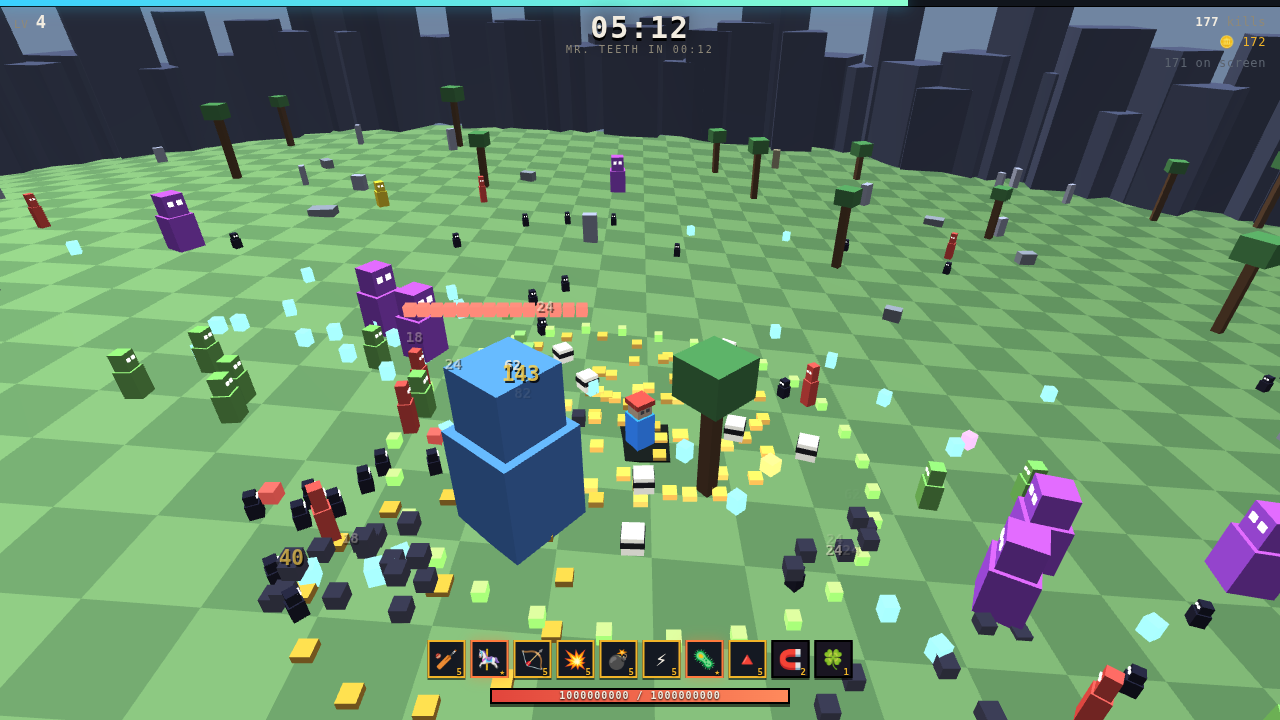
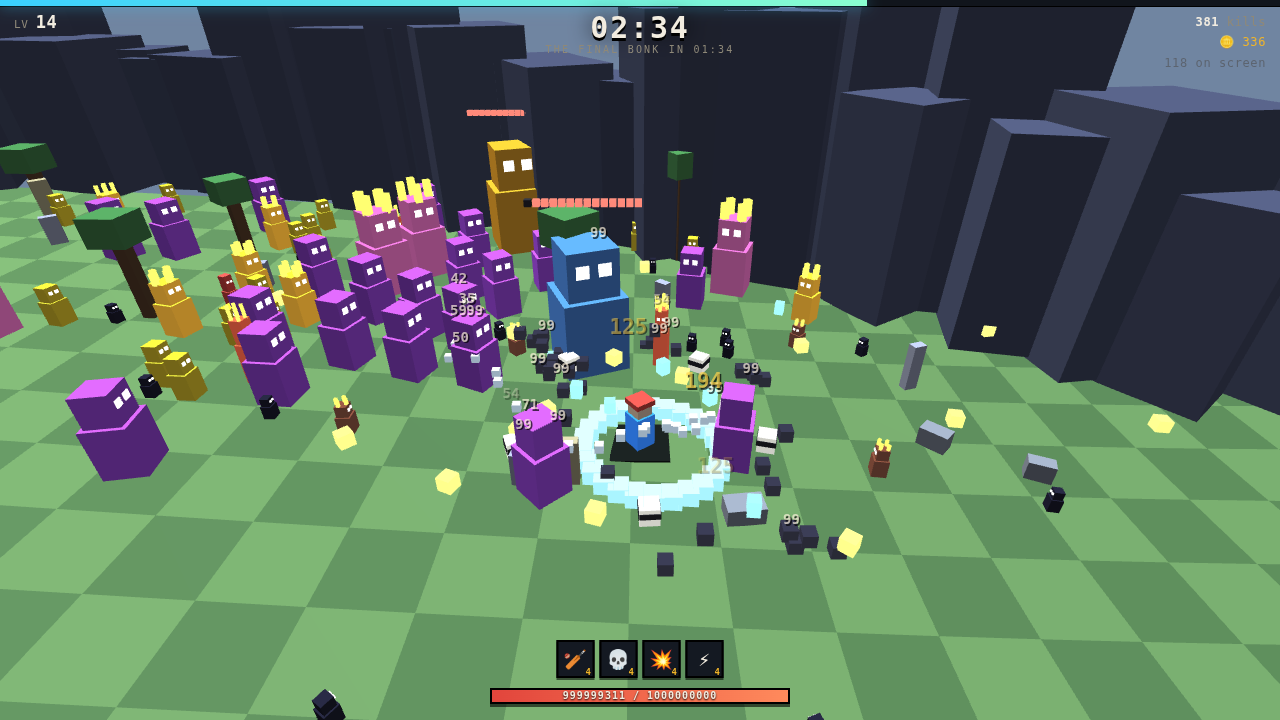
Elites: give the difficulty curve a face
Last round made the endgame x14.5 HP with no visual change at all, so
minute 18 looked identical to minute 8 while nothing died. That reads as
"my weapons got worse", not "these are tougher" - and a player who cannot
see the difficulty cannot adapt to it. That was a legibility defect the
difficulty work introduced.

Elites start at minute 6 and rise to ~1 in 5 by the end: crowned, 38%
larger, hot-tinted but still their species colour, 3.2x HP, 1.3x damage,
5x XP. A tint alone disappears in a crowd of 300, so they get a silhouette
you can pick out and decide to deal with.

Deliberately close to difficulty-neutral - veteran clears went 10/30 ->
9/30, first runs unmoved (they end at 4-6 min, before elites exist). The
change was readability, and the measurement confirms it did not smuggle in
a balance shift.

Enemies now carry their own rad/sz/xp/dmg/spdMul rather than reading the
shared type, which is what made per-enemy variants possible at all.

Also measured, since it would have changed priorities if it were bad: the
simulation costs 0.4 ms/frame at 300 enemies - a ~2,400 fps ceiling. The
frame budget is entirely rendering, and the harness's ~10 fps is
SwiftShader rasterising in software, not the game. window.__g.perf()
splits the two.

Two harness bugs fixed on the way:
  - the elite-vs-normal HP probe sampled one of each, but they spawn at
    different times under a moving hpScale, so it was comparing nothing.
    Uses medians now.
[…]

diff --git a/bonkhorde/index.html b/bonkhorde/index.html
@@ -520,6 +520,12 @@ const PHASES = [
 { t:960,  rate:11.6, mix:{runner:9,    skitter:11,spitter:6, brute:8} },
 { t:1100, rate:14.0, mix:{runner:10,   skitter:12,spitter:6, brute:10} },
 ];
+// Elite variants. Rare at first sight, ~1 in 5 by the end.
+const NORMAL     = { hp:1,   dmg:1,   spd:1,    sz:1,    xp:1 };
+const ELITE      = { hp:3.2, dmg:1.3, spd:1.10, sz:1.38, xp:5 };
+const ELITE_FROM = 360;                  // none before minute 6
+const eliteChance = t => Math.min(.20, (t - ELITE_FROM) / 3600);
+
 const RUN_LEN = 1200;                    // 20:00
 // Player power grows MULTIPLICATIVELY - evolutions roughly double a weapon, then
 // spinach and crit multiply on top of that. A linear HP ramp cannot stay with it,
@@ -582,6 +588,7 @@ let T=0, kills=0, coinsRun=0, running=false, over=false, paused=false, picking=f
 let shake=0, flash=0, camYaw=0, camPitch=.62;
 let bossIdx=0, nextSpawn=0, charId="intern", usedRevive=false, pendingLevels=0, dt=0;
 let sudden=false;                       // past 20:00 with THE FINAL BONK still up
+let noLevels=false;                     // test-only: hold back the level-up screen
 let runWon=false, runWhy="";
 
 function baseStats(ch){
@@ -614,7 +621,7 @@ function startRun(id){
   arcs=[]; pops=[]; nums=[]; spits=[]; alerts=[];
   T=0; kills=0; coinsRun=0; bossIdx=0; nextSpawn=0; shake=0; flash=0;
   camYaw=0; camPitch=.62; usedRevive=false; pendingLevels=0; sudden=false;
-  runWon=false; runWhy="";
+  runWon=false; runWhy=""; noLevels=false;
   running=true; over=false; paused=false; picking=false;
   hide("menu"); hide("end"); hide("paused"); hide("pick");
   audioInit(); if(AC && AC.state==="suspended") AC.resume();
@@ -724,18 +731,18 @@ function hurt(e, amount, kx, kz, crit){
 function killEnemy(e){
   if(e.dead) return;
   e.dead = true; kills++;
-  const n = e.boss ? 26 : e.def.r>1 ? 9 : 5;
+  const n = e.boss ? 26 : e.elite ? 14 : e.rad>1 ? 9 : 5;
   for(let i=0;i<n;i++) if(pops.length<340)
     pops.push({ x:e.x, y:e.y+e.def.h*.5, z:e.z, vx:rnd(-6,6), vy:rnd(2,9), vz:rnd(-6,6),
                 life:rnd(.35,.8), c:e.def.c, s:e.boss?.42:.20 });
   // XP: bosses shatter into a payday, everything else drops one gem
   if(e.boss){
-    for(let i=0;i<16;i++) pushGem(e.x+rnd(-3,3), e.z+rnd(-3,3), Math.ceil(e.def.xp/16));
+    for(let i=0;i<16;i++) pushGem(e.x+rnd(-3,3), e.z+rnd(-3,3), Math.ceil(e.xp/16));
     coinsRun += 90; shake = Math.max(shake, 1.4); SFX.boom();
     alert2(e.def.nm+" DOWN", "#6ddba0");
     if(e.final){ finish("VICTORY", true); return; }
   } else {
-    pushGem(e.x, e.z, e.def.xp);
+    pushGem(e.x, e.z, e.xp);
     if(Math.random() < .012) coinsRun += 5;
     SFX.pop();
   }
@@ -911,8 +918,17 @@ function spawnEnemy(type, atX, atZ){
     x = clamp(P.x + Math.cos(a)*r, -ARENA+2, ARENA-2);
     z = clamp(P.z + Math.sin(a)*r, -ARENA+2, ARENA-2);
   }
-  enemies.push({ x, z, y:groundY(x,z), def, type,
-    hp: def.hp*hpScale(T), maxhp: def.hp*hpScale(T), dmg: def.dmg*dmgScale(T),
+  // ELITES. The late game is x14.5 HP by minute 20 with no visual change at
+  // all, so minute 18 looks exactly like minute 8 while nothing dies - which
+  // reads as "my weapons got worse", not "these are tougher". Elites give the
+  // curve a face: a readable, prioritisable target that is visibly the reason.
+  const elite = T > ELITE_FROM && Math.random() < eliteChance(T);
+  const em = elite ? ELITE : NORMAL;
+  enemies.push({ x, z, y:groundY(x,z), def, type, elite,
+    rad: def.r*em.sz, sz: em.sz, xp: def.xp*em.xp, spdMul: em.spd,
+    hp:    def.hp*hpScale(T)*em.hp,
+    maxhp: def.hp*hpScale(T)*em.hp,
+    dmg:   def.dmg*dmgScale(T)*em.dmg,
     kx:0, kz:0, flash:-1, atk:0, bob:Math.random()*TAU, slowT:0, dead:false, boss:false });
 }
 function spawnBoss(b){
@@ -921,7 +937,7 @@ function spawnBoss(b){
   const x = clamp(P.x+Math.cos(a)*26, -ARENA+5, ARENA-5);
   const z = clamp(P.z+Math.sin(a)*26, -ARENA+5, ARENA-5);
   enemies.push({ x, z, y:groundY(x,z), def, type:"boss", hp:def.hp, maxhp:def.hp,
-    dmg:def.dmg,
+    dmg:def.dmg, rad:def.r, sz:1, xp:def.xp, spdMul:1, elite:false,
     kx:0, kz:0, flash:-1, atk:0, bob:0, slowT:0, dead:false, boss:true,
     final: b.t===1140 });
   shake = 1.2; SFX.boss(); alert2(b.nm, "#ff5c4d");
@@ -940,7 +956,7 @@ function updateEnemies(dt){
     e.kx *= Math.pow(.02, dt); e.kz *= Math.pow(.02, dt);
 
     const dx = P.x-e.x, dz = P.z-e.z, d = Math.hypot(dx,dz)||1;
-    const spd = e.def.spd * (e.slowT>0 ? .45 : 1) * (e.boss?1:rndSeed(e));
+    const spd = e.def.spd * e.spdMul * (e.slowT>0 ? .45 : 1) * (e.boss?1:rndSeed(e));
 
     if(e.def.ranged){
       // spitters hold at range and lob
@@ -964,9 +980,9 @@ function updateEnemies(dt){
     // standing still became SAFER the bigger the horde got. Clamp it well under
     // the slowest enemy's speed so the front rank always arrives.
     let sx=0, sz=0;
-    near(e.x, e.z, e.def.r*1.9, (o,od)=>{
+    near(e.x, e.z, e.rad*1.9, (o,od)=>{
       if(o===e || od<.0001) return;
-      const f = (e.def.r+o.def.r - od);
+      const f = (e.rad+o.rad - od);
       if(f>0){ sx += (e.x-o.x)/od*f; sz += (e.z-o.z)/od*f; }
     });
     const sl = Math.hypot(sx,sz);
@@ -984,7 +1000,7 @@ function updateEnemies(dt){
     e.bob += dt * (4 + e.def.spd);
 
     // contact damage
-    if(!e.def.ranged && d < e.def.r + .75 && P.iframe<=0){
+    if(!e.def.ranged && d < e.rad + .75 && P.iframe<=0){
       playerHurt(e.dmg);
     }
   }
@@ -1313,7 +1329,7 @@ function step(dt){
 
   if(shake>0) shake = Math.max(0, shake - dt*2.2);
   if(flash>0) flash = Math.max(0, flash - dt*2.6);
-  if(pendingLevels>0 && !picking) showPick();
+  if(pendingLevels>0 && !picking && !noLevels) showPick();
 }
 
 // ================================================================== FINISH
@@ -1492,20 +1508,37 @@ function render(){
 
   // enemies
   for(const e of enemies){
-    const D = e.def, hop = Math.abs(Math.sin(e.bob))*(e.boss?.10:.20);
+    const D = e.def, S = e.sz, W = D.w*S, H = D.h*S;
+    const hop = Math.abs(Math.sin(e.bob))*(e.boss?.10:.20);
     const sq = e.flash>0 ? 1.25 : 1;
-    const c = e.flash>0 ? [lerp(D.c[0],1,.72), lerp(D.c[1],1,.72), lerp(D.c[2],1,.72)] : D.c;
+    // elites keep their species colour but run hot, so you can still tell a
+    // CHONK from a SKITTER while knowing which one is the problem
+    const base = e.elite ? [lerp(D.c[0],1,.34), lerp(D.c[1],.42,.34), lerp(D.c[2],.10,.34)]
+                         : D.c;
+    const glow = e.flash>0 ? .45 : e.elite ? .20 : 0;
+    const c = e.flash>0 ? [lerp(base[0],1,.72), lerp(base[1],1,.72), lerp(base[2],1,.72)]
+                        : base;
     const face = Math.atan2(P.x-e.x, P.z-e.z);
-    const bh = D.h*.62;
-    box(e.x, e.y+bh*.5+hop, e.z, D.w*.5*sq, bh*.5, D.w*.5*sq, c, e.flash>0?.45:0, face);
+    const bh = H*.62;
+    box(e.x, e.y+bh*.5+hop, e.z, W*.5*sq, bh*.5, W*.5*sq, c, glow, face);
     // head + googly eyes. This is 3 boxes and it is most of the personality.
-    const hy = e.y + bh + D.h*.19 + hop;
-    box(e.x, hy, e.z, D.w*.40, D.h*.19, D.w*.40, c, e.flash>0?.45:0, face);
-    const ex = D.w*.17, ez = D.w*.40;
+    const hy = e.y + bh + H*.19 + hop;
+    box(e.x, hy, e.z, W*.40, H*.19, W*.40, c, glow, face);
+    const ex = W*.17, ez = W*.40;
     for(const sgn of [-1,1]){
       const ox = Math.cos(face)*ex*sgn + Math.sin(face)*ez;
       const oz = -Math.sin(face)*ex*sgn + Math.cos(face)*ez;
-      box(e.x+ox, hy+D.h*.04, e.z+oz, D.w*.10,D.w*.10,.04, [1,1,1], .9, face);
+      box(e.x+ox, hy+H*.04, e.z+oz, W*.10,W*.10,.04, [1,1,1], .9, face);
+    }
+    // and a crown. A tint alone vanishes in a crowd of 300 - this needs to be
+    // a silhouette you can pick out at a glance and decide to deal with.
+    if(e.elite){
+      const cy = hy + H*.28, spin = T*1.7 + e.bob;
+      for(let i=0;i<4;i++){
+        const a = spin + i*(TAU/4);
+        box(e.x + Math.sin(a)*W*.36, cy + Math.sin(T*3+i)*.05, e.z + Math.cos(a)*W*.36,
+            W*.10, H*.11, W*.10, [1,.74,.16], .95, a);
+      }
     }
     if(e.boss){
       const f = e.hp/e.maxhp;
@@ -1720,11 +1753,30 @@ window.__g = {
     } return enemies.length; },
   boss:  i=>spawnBoss(BOSSES[i||0]),
   god:   ()=>{ P.maxhp=1e9; P.hp=1e9; },
-  drainPicks: ()=>{ pendingLevels=0; picking=false; hide("pick"); },
+  // split frame cost into simulation vs rendering. Software GL exaggerates the
+  // render half enormously, so only the sim number transfers to real hardware.
+  perf:  (n=90)=>{
+    let sim=0, ren=0;
+    for(let i=0;i<n;i++){
+      let t0=performance.now(); step(1/60);      sim += performance.now()-t0;
+      t0=performance.now();     render();        ren += performance.now()-t0;
+    }
+    return { simMs:+(sim/n).toFixed(2), renderMs:+(ren/n).toFixed(2),
+             enemies:enemies.length, boxes:drawnBoxes,
+             simFpsCeiling:Math.round(1000/(sim/n)) };
+  },
+  drainPicks: (suppress)=>{ pendingLevels=0; picking=false; hide("pick");
+                            if(suppress!==undefined) noLevels=!!suppress; },
   killBoss: ()=>{ const b=enemies.find(e=>e.final&&!e.dead); if(b) killEnemy(b);
                   return window.__g.state(); },
   bot:   (on=true)=>botDrive=on,
   hpx:   ()=>hpScale(T),
+  elites:()=>{ const med = a => { const v=a.slice().sort((x,y)=>x-y);
+                                   return v.length ? v[v.length>>1] : 0; };
+    const E = enemies.filter(e=>e.elite), N = enemies.filter(e=>!e.elite&&!e.boss);
+    return { n:E.length, total:enemies.length,
+             chance:+Math.max(0,eliteChance(T)).toFixed(3),
+             hp: med(E.map(e=>e.maxhp)), normHp: med(N.map(e=>e.maxhp)) }; },
   dbg:   ()=>{ const ds=enemies.map(e=>Math.hypot(e.x-P.x,e.z-P.z)).sort((a,b)=>a-b);
                const hs=enemies.map(e=>e.hp).sort((a,b)=>a-b);
                return { nearest: ds[0]??-1, inRange: ds.filter(d=>d<8).length,

diff --git a/bonkhorde/test.js b/bonkhorde/test.js
@@ -164,6 +164,25 @@ const ok  = (n, c, extra="") => { c ? passes++ : fails++;
   ok("coins awarded on finish", full.final.coins > 0, "coins=" + full.final.coins);
   ok("no errors across full run", errors.length === 0, errors.slice(0, 3).join(" | "));
 
+  console.log("\n=== 7b. ELITES ===");
+  const early = await page.evaluate(() => {
+    window.__g.start("intern"); window.__g.god(); window.__g.bot(true);
+    window.__g.step(60 * 300);                          // to 5:00, before ELITE_FROM
+    return window.__g.elites();
+  });
+  ok("no elites before minute 6", early.n === 0 && early.chance <= 0,
+     `n=${early.n} chance=${early.chance}`);
+  const late = await page.evaluate(() => {
+    window.__g.start("intern"); window.__g.god(); window.__g.bot(true);
+    window.__g.skipTo(1000); window.__g.step(60 * 60);
+    return window.__g.elites();
+  });
+  ok("elites appear late", late.n > 0, `${late.n}/${late.total} alive, roll=${late.chance}`);
+  ok("elites are the tougher thing", late.hp > late.normHp * 2.5,
+     `elite ${Math.round(late.hp)} vs normal ${Math.round(late.normHp)}`);
+  ok("elite share stays a minority", late.n / Math.max(1,late.total) < 0.45,
+     Math.round(late.n / Math.max(1,late.total) * 100) + "%");
+
   console.log("\n=== 8b. SUDDEN DEATH GATE ===");
   const gate = await page.evaluate(() => {
     window.__g.start("intern"); window.__g.god(); window.__g.skipTo(1135);

diff --git a/bonkhorde/README.md b/bonkhorde/README.md
@@ -39,6 +39,7 @@ long as you stall, and victory means killing it. You have four minutes.
 | **8 evolutions** | each weapon maxed + a specific passive at rank 3 unlocks a replacement form |
 | **8 passives** | damage, speed, cooldown, pickup radius, armour, HP, +projectiles, crit |
 | **5 enemy types + 4 bosses** | with a spawn director that reweights the mix over 11 phases |
+| **elite variants** | from minute 6, rising to ~1 in 5 — crowned, larger, 3.2× HP, 5× XP |
 | **5 characters** | different starting weapon and stat profile; one unlocks by surviving 10:00 |
 | **9 permanent upgrades** | bought with coins, persisted to `localStorage` |
 
@@ -59,6 +60,11 @@ super-enemy that is both invisible and unkillable.
 
 **Audio.** A ~40-line Web Audio synth. No files.
 
+**Cost.** The simulation is **0.4 ms/frame at 300 enemies** — a ~2,400 fps ceiling — so the
+frame budget is entirely rendering. (The harness reports ~10 fps under load, but that is
+SwiftShader rasterising in software; the sim number is the one that transfers to real
+hardware.) Measured, not assumed: `window.__g.perf()` splits the two.
+
 ---
 
 ## Verification
@@ -69,15 +75,15 @@ same pattern as `proto3d/` in the parent repository.
 ```bash
 npm i playwright && npx playwright install chromium
 
-node test.js              # 63 checks: boot, every weapon, every evolution, every
-                         # enemy, every character, a full run, the sudden-death
-                         # gate, death, saves, render
+node test.js              # 67 checks: boot, every weapon, every evolution, every
+                         # enemy, elites, every character, a full run, the
+                         # sudden-death gate, death, saves, render
 node balance.js 6 both   # difficulty measurement: [trials] [first|vet|both]
 ```
 
 `test.js` covers each of the 8 weapons and all 8 evolutions individually, spawns every enemy
 type and boss, plays a complete run to the 20:00 victory, verifies the player can actually
-die, and checks that `localStorage` survives a reload. **63 passing.**
+die, and checks that `localStorage` survives a reload. **67 passing.**
 
 ### Balance is measured, not guessed
 
@@ -87,29 +93,30 @@ difficulty curve here is a measurement. Current state, 6 trials per cell:
 
 ```
                      median    worst     best   lvl  kills  evos  clears
-FIRST RUN   intern    04:55    04:03    10:07    13    859   0.2     0/6
-  (no perm  scrap     05:16    04:03    06:42    13    727   0.0     0/6
-  upgrades) spark     04:13    03:54    21:17    18   2028   0.5     0/6
-            ox        04:36    04:07    07:04    12    672   0.2     0/6
-            ghoul     05:40    04:01    21:31    21   2624   0.8     0/6
+FIRST RUN   intern    05:19    04:04    08:58    13    859   0.0     0/6
+  (no perm  scrap     05:10    04:04    10:25    14    923   0.2     0/6
+  upgrades) spark     04:02    03:45    05:10    10    537   0.0     0/6
+            ox        04:49    03:48    05:37    10    610   0.0     0/6
+            ghoul     04:28    04:13    06:19    12    608   0.0     0/6
 
-VETERAN     intern    20:52    07:01    23:59    45   8721   2.3     1/6
-  (all      scrap     14:36    07:36    22:35    37   5913   1.7     2/6
-  upgrades  spark     22:21    10:14    23:25    50  10132   2.8     3/6
-  bought)   ox        21:41    06:40    23:03    46   8889   2.7     3/6
-            ghoul     21:08    05:57    21:44    35   5672   1.2     1/6
+VETERAN     intern    21:38    06:06    23:56    52   8584   3.0     4/6
+  (all      scrap     21:25    07:39    22:59    50   7764   2.8     2/6
+  upgrades  spark     11:58    05:39    21:01    33   3828   1.5     1/6
+  bought)   ox        14:43    06:05    21:45    38   4920   2.0     1/6
+            ghoul     11:10    06:52    21:43    36   4442   1.7     1/6
 ```
 
 Which is the shape the genre wants. First-run deaths cluster hard at **4–6 minutes** (11 of 12
 in the histogram) and never once clear, though a lucky run occasionally reaches the final boss
 at 21:17 — so the ceiling is visible without being available. A maxed shop makes twenty minutes
-*reachable* and clears **10 of 30**; the medians above are mostly runs that got to sudden death
-and lost there, which is the fight being the fight.
+*reachable* and clears **9 of 30**; the medians above are mostly runs that got to sudden death
+and lost there, which is the fight being the fight. Per-character veteran spread is noise at
+n=6 against a bimodal outcome — read the total, not the rows.
 
 Note the veteran medians read past 20:00 because sudden death runs the clock on. Survival time
 is no longer the same thing as winning — see the last finding below.
 
-That harness has overturned eleven things this build believed:
+That harness has overturned twelve things this build believed:
 
 - **Skitters moved at 6.2 against a player speed of 6.3.** You could not outrun the horde,
   which deletes the only verb the genre has. Kiting has to be possible or the game is just
@@ -145,13 +152,19 @@ That harness has overturned eleven things this build believed:
 - **Cooldown reduction compounded past everything else.** Character × shop × METRONOME took
   THE SPARK to 0.446, a 2.24× fire rate multiplying an already multiplicative damage stack.
   Floored at 0.58.
+- **The difficulty curve was invisible.** Making the endgame ×14.5 HP left minute 18 looking
+  identical to minute 8 while nothing died — which reads as *your weapons got worse*, not
+  *these are tougher*, and a player who cannot see the difficulty cannot adapt to it. Elites
+  give the curve a face. They are deliberately close to difficulty-neutral (clears went 10/30
+  → 9/30); the change was legibility, and the measurement confirms it did not smuggle in a
+  balance shift.
 - **The clears metric silently broke.** It counted `t >= 1199`, which was synonymous with
   victory right up until sudden death let losing runs reach 22:00 — and then reported them as
   wins. The instrument has to be re-checked every time the thing it measures changes shape.
 
-Seven of the eleven were found by measurement rather than by playing, which is the argument
-for having the harness. Two came from actually looking at a screenshot, which is the argument
-against trusting the harness alone. And one was the harness lying about itself.
+Eight of the twelve were found by measurement rather than by playing, which is the argument
+for having the harness. Three came from actually looking at a screenshot, which is the
+argument against trusting the harness alone. And one was the harness lying about itself.
 
 **The autopilot itself was wrong twice before it was useful**, and both times it looked fine:
 v1 maximised distance and scored a plausible 2:50 while killing almost nothing; v2 summed
